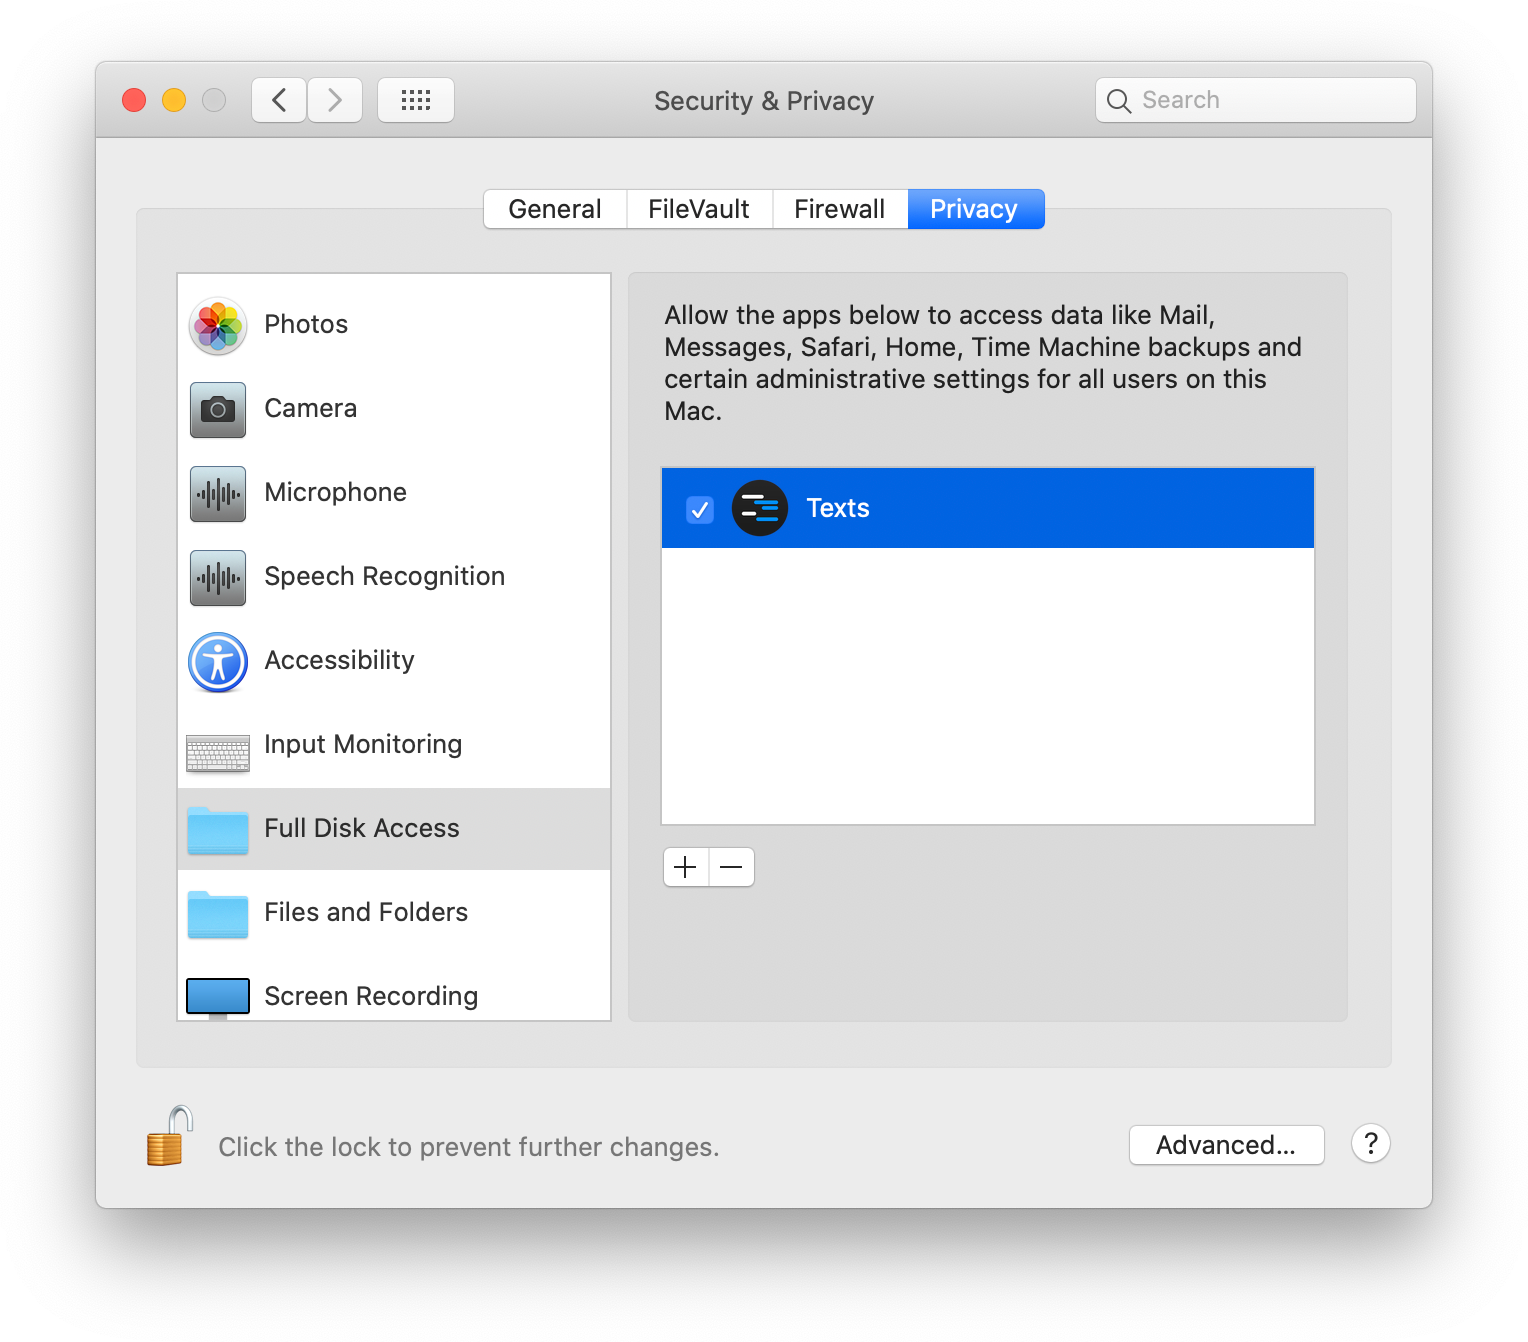
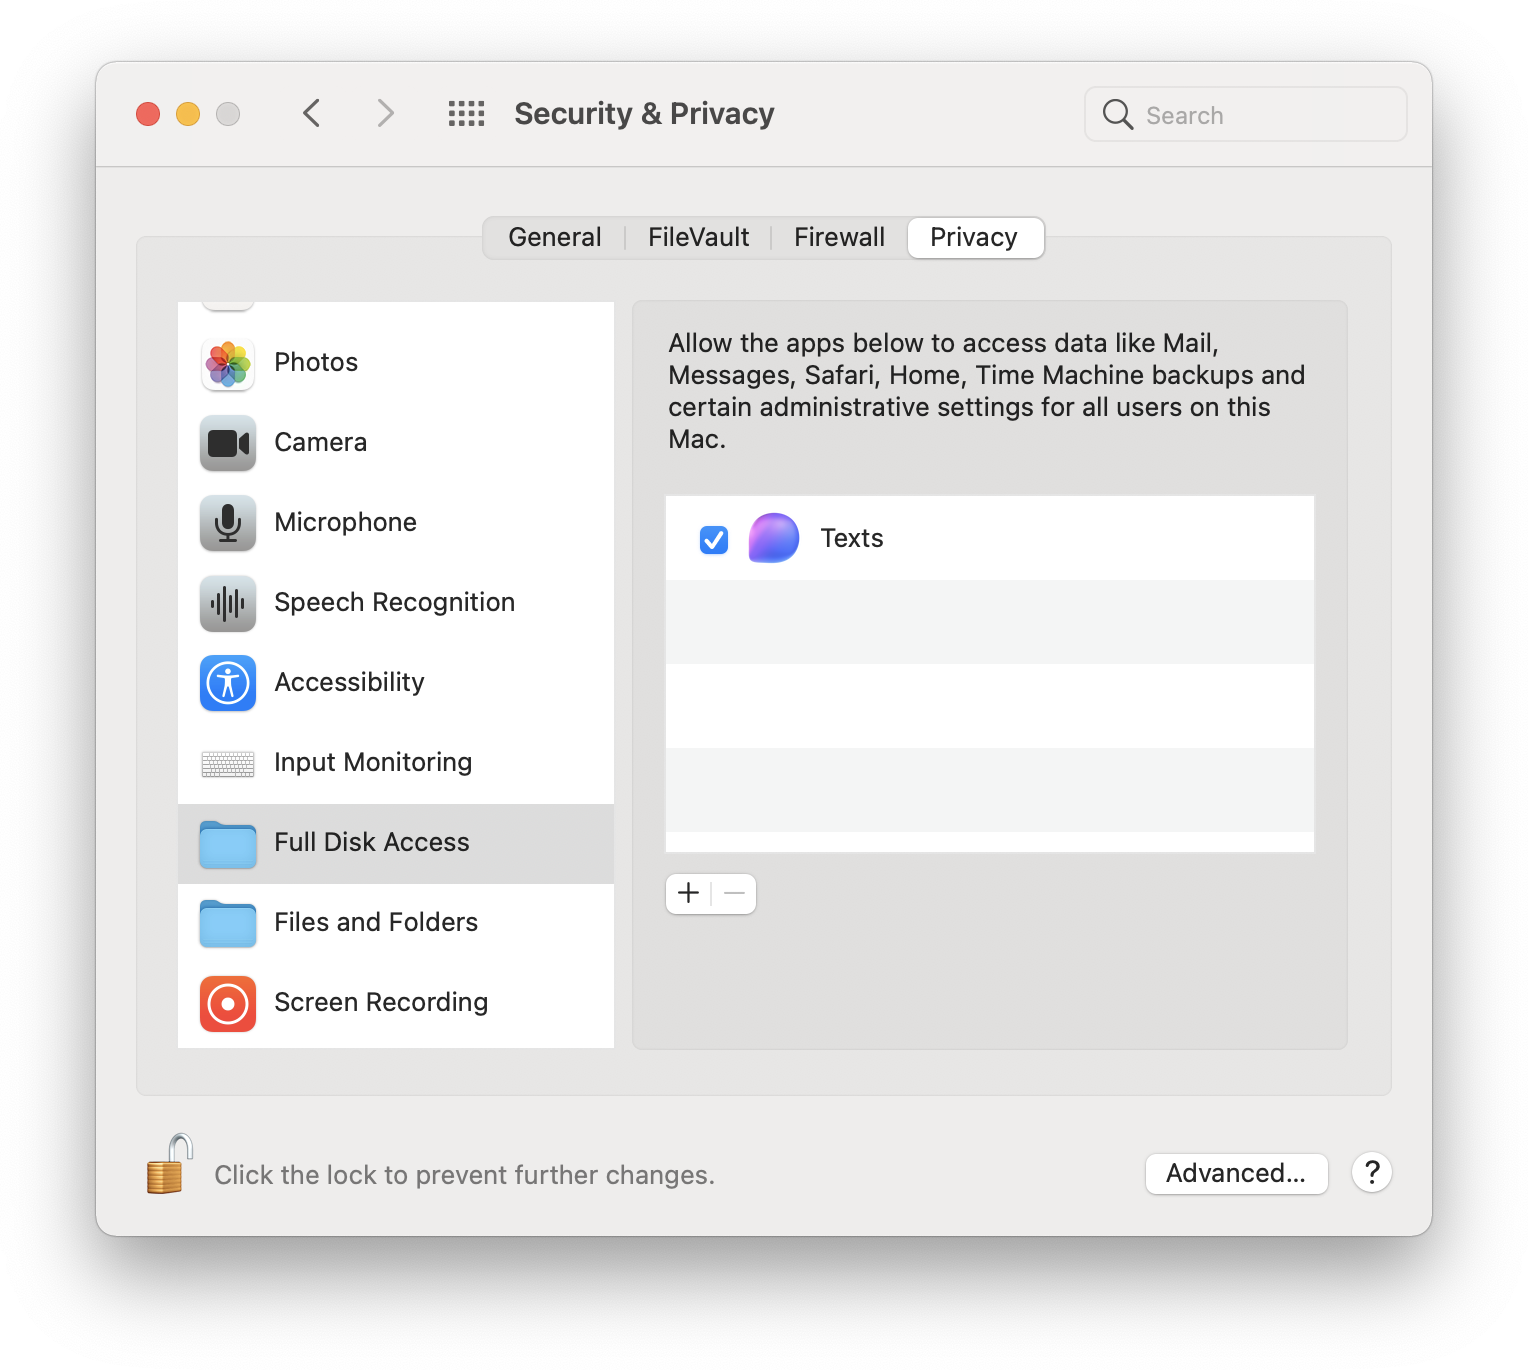
add big sur fda image

diff --git a/src/auth.tsx b/src/auth.tsx
@@ -87,7 +87,7 @@ const FDAAuthPage: React.FC<PageProps> = ({ selectNextPage }) => {
       <h3>Full Disk Access</h3>
       {!authorized && (
         <>
-          <img className={cn({ grayscale })} src={fdaImg} alt="System Preferences – Full Disk Access" width={521} onClick={imgClick} />
+          <img className={cn({ grayscale })} src={fdaImg} alt="System Preferences – Full Disk Access" width={IS_BIG_SUR_OR_UP ? 764 : 521} onClick={imgClick} />
           <p>Texts needs full disk access to access the local iMessage database. Your data never touches our servers.</p>
           <ol>
             <li>Click the 🔒 icon in the bottom-left corner</li>
